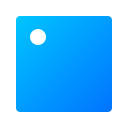
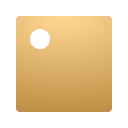
Updated to support dark mode

diff --git a/css/app.css b/css/app.css
@@ -1,3 +1,18 @@
+:root {
+  --bg: #fdfdfd;
+  --text-primary: #333;
+  --text-secondary: #666;
+  --divider: #d8d8d8;
+
+  --list-focus-bg: #D8EAFF;
+  --list-dev-bg: #FFF3B1;
+  --list-dev-focus-bg: #FFE865;
+
+  --img-url-delete: url(/img/icon-bin.svg);
+  --img-url-option: url(/img/icon-cog.svg);
+  --img-url-open: url(/img/icon-open.svg);
+}
+
 * {
   box-sizing: border-box;
 }
@@ -9,9 +24,9 @@ html, body {
 }
 
 body {
-  background-color: #fdfdfd;
-  color: #333;
-  font-family: "Helvetica Neue", Helvetica, "Nimbus Sans L", Arial, "Liberation Sans", "PingFang SC", "Source Han Sans CN", "Source Han Sans SC", "Microsoft YaHei", "Wenquanyi Micro Hei", "WenQuanYi Zen Hei", "ST Heiti", SimHei, "WenQuanYi Zen Hei Sharp", sans-serif;
+  background-color: var(--bg);
+  color: var(--text-primary);
+  font-family: -apple-system, sans-serif;
   width: 320px;
   height: 500px;
   -webkit-user-drag: none;
@@ -20,10 +35,6 @@ body {
 
 h1, h2 {
   margin: 0;
-}
-
-small {
-  color: #666;
 }
 
 .group {
@@ -39,19 +50,19 @@ small {
   margin: 0 10px;
   display: flex;
   justify-content: space-between;
-  border-bottom: 1px solid #D8D8D8;
+  border-bottom: 1px solid var(--divider);
   cursor: default;
 }
 
 .title {
   font-size: 1.2rem;
-  font-weight: normal;
+  font-weight: 600;
 }
 
 .sub-title {
-  font-size: 1.2rem;
+  font-size: 1rem;
   font-weight: normal;
-
+  color: var(--text-secondary);
 }
 
 .list {
@@ -70,20 +81,20 @@ small {
 
 .list li:hover,
 .list li:focus {
-  background-color: #D8EAFF;
+  background-color: var(--list-focus-bg);
 }
 
 .list li.disabled {
-  -webkit-filter: saturate(0);
+  filter: saturate(0);
 }
 
 .list li.development {
-  background-color: #FFF3B1;
+  background-color: var(--list-dev-bg);
 }
 
 .list li.development:hover,
 .list li.development:focus {
-  background-color: #FFE865;
+  background-color: var(--list-dev-focus-bg);
 }
 
 .list-label {
@@ -94,6 +105,7 @@ small {
 	text-overflow: ellipsis;
   line-height: 1;
   -webkit-user-select: none;
+  color: var(--text-primary);
 }
 
 .list-action {
@@ -110,22 +122,22 @@ small {
 
 .action-icon {
   display: block;
-  width: 16px;
-  height: 16px;
+  width: 18px;
+  height: 18px;
   margin: 0 5px;
-  background-size: 16px 16px;
+  background-size: cover;
   background-repeat: no-repeat;
   cursor: pointer;
   transition: opacity ease-out 0.15s;
 }
 
 .delete {
-  background-image: url(/img/icon-bin.svg);
+  background-image: var(--img-url-delete);
   visibility: hidden;
 }
 
 .option {
-  background-image: url(/img/icon-cog.svg);
+  background-image: var(--img-url-option);
   opacity: 0.8;
 }
 
@@ -134,7 +146,7 @@ small {
 }
 
 .open {
-  background-image: url(/img/icon-open.svg);
+  background-image: var(--img-url-open);
 }
 
 .list li:hover .delete,
@@ -157,10 +169,19 @@ small {
   border-radius: 2px;
 }
 
-.control input:checked ~ .control-indicator {
-
-}
-
 .control input:focus ~ .control-indicator {
   box-shadow: none;
+}
+
+@media (prefers-color-scheme: dark) {
+  :root {
+    --bg: #282828;
+    --text-primary: #dedede;
+    --text-secondary: #aeaeae;
+    --divider: #3c3c3c;
+
+    --list-focus-bg: #323542;
+    --list-dev-bg: #504636;
+    --list-dev-focus-bg: #645641;
+  }
 }

diff --git a/src/browser_action/browser_action.html b/src/browser_action/browser_action.html
@@ -1,49 +1,34 @@
 <!DOCTYPE html>
-<meta charset="UTF-8">
-<link rel="stylesheet" href="/css/wtf-forms.css">
-<link rel="stylesheet" href="/css/app.css">
+<meta charset="UTF-8" />
+<link rel="stylesheet" href="/css/wtf-forms.css" />
+<link rel="stylesheet" href="/css/app.css" />
 
 <section class="group" id="groupExt">
-	<hgroup class="header">
-		<h1 class="title" id="titleExt">Extensions</h1>
-		<h2 class="sub-title"><span id="countEnabledExt"></span><small>/<span id="countExt"></span></small></h2>
-	</hgroup>
-	<ul class="list">
-
-		<!-- <li>
-			<label class="control checkbox list-label">
-				<input type="checkbox">
-				<span class="control-indicator"></span>
-
-				<span class="label-content" title="Adblock is a ...">
-					<img src="/icons/icon48.png" alt="" class="label-img">
-					Adblock
-				</span>
-			</label>
-
-			<div class="list-action">
-				<a href="#" class="action-icon delete"></a>
-				<a href="#" class="action-icon option"></a>
-			</div>
-		</li> -->
-
-	</ul>
+  <hgroup class="header">
+    <h1 class="title" id="titleExt">Extensions</h1>
+    <h2 class="sub-title">
+      <span id="countEnabledExt"></span>/<span id="countExt"></span>
+    </h2>
+  </hgroup>
+  <ul class="list"></ul>
 </section>
 
 <section class="group" id="groupApp">
-	<hgroup class="header">
-		<h1 class="title" id="titleApp">Applications</h1>
-		<h2 class="sub-title"><span id="countEnabledApp"></span><small>/<span id="countApp"></span></small></h2>
-	</hgroup>
-	<ul class="list"></ul>
+  <hgroup class="header">
+    <h1 class="title" id="titleApp">Applications</h1>
+    <h2 class="sub-title">
+      <span id="countEnabledApp"></span>/<span id="countApp"></span>
+    </h2>
+  </hgroup>
+  <ul class="list"></ul>
 </section>
 
 <section class="group" id="groupTheme">
-	<hgroup class="header">
-		<h1 class="title" id="titleTheme">Themes</h1>
-		<h2 class="sub-title"><span id="countTheme"></span></h2>
-	</hgroup>
-	<ul class="list"></ul>
+  <hgroup class="header">
+    <h1 class="title" id="titleTheme">Themes</h1>
+    <h2 class="sub-title"><span id="countTheme"></span></h2>
+  </hgroup>
+  <ul class="list"></ul>
 </section>
 
 <script src="/js/jquery.min.js"></script>

diff --git a/src/bg/background.js b/src/bg/background.js
@@ -1,19 +1,22 @@
-// if you checked "fancy-settings" in extensionizr.com, uncomment this lines
+const isDarkMode = window.matchMedia("(prefers-color-scheme: dark)").matches; // OS set to dark mode
+const isIncognito = chrome.extension.inIncognitoContext; // Chrome is in incognito context
 
-// var settings = new Store("settings", {
-//     "sample_setting": "This is how you use Store.js to remember values"
-// });
 
-var webstoreUrl  = 'https://chrome.google.com/webstore/category/extensions';
-var extensionUrl = 'chrome://extensions/';
+if (isDarkMode || isIncognito) {
+    // set light-colored icon in dark UI
+    chrome.browserAction.setIcon({ path: `/icons/icon96-light.png`});
+}
 
-var mGotoWebStore  = chrome.i18n.getMessage('gotoWebStore');
-var mGotoExtension = chrome.i18n.getMessage('gotoExtension');
+const webstoreUrl  = 'https://chrome.google.com/webstore/category/extensions';
+const extensionUrl = 'chrome://extensions/';
+
+const mGotoWebStore  = chrome.i18n.getMessage('gotoWebStore');
+const mGotoExtension = chrome.i18n.getMessage('gotoExtension');
 
 chrome.contextMenus.create({
   "title": mGotoExtension,
   "contexts": ["browser_action"],
-  "onclick": function(){
+  "onclick": () => {
     chrome.tabs.create({ url: extensionUrl });
   }
 });
@@ -21,7 +24,7 @@ chrome.contextMenus.create({
 chrome.contextMenus.create({
   "title": mGotoWebStore,
   "contexts": ["browser_action"],
-  "onclick": function(){
+  "onclick": () => {
     chrome.tabs.create({ url: webstoreUrl });
   }
 });
